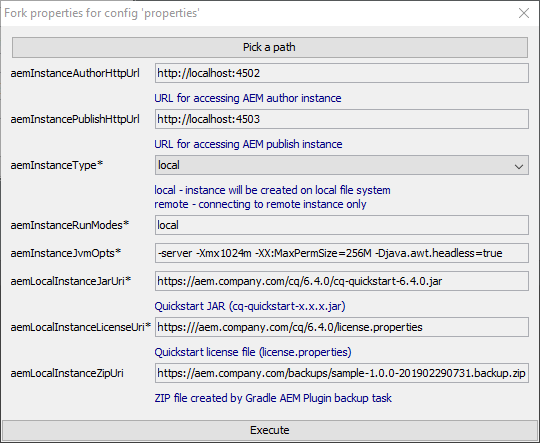
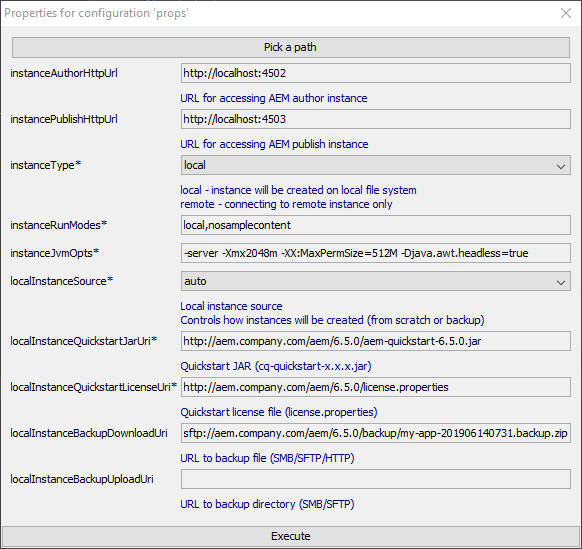
Align to GAP 7 & AEM 6.5

diff --git a/buildSrc/src/main/kotlin/build.kt b/buildSrc/src/main/kotlin/build.kt
@@ -1,0 +1,5 @@
+object Aem {
+
+  val VERSION = "6.5.0"
+
+}

diff --git a/README.md b/README.md
@@ -43,7 +43,7 @@ Documentation for:
 1. Fork project using command:
 
     ```bash
-    git clone git@github.com:Cognifide/gradle-aem-single.git && cd gradle-aem-single && gradlew fork
+    git clone git@github.com:Cognifide/gradle-aem-single.git && cd gradle-aem-single && ./gradlew fork
     ```
 
     and specify properties:
@@ -55,7 +55,7 @@ Documentation for:
 2. Setup user specific project configuration using command:
 
     ```bash
-    gradlew props
+    ./gradlew props
     ```
     
     and specify properties:
@@ -65,7 +65,7 @@ Documentation for:
 3. Setup local AEM instances and dependencies then build application using command:
 
     ```bash
-    gradlew -i aemSetup
+    ./gradlew setup
     ```
     
     and wait till complete AEM environment will be ready to use.
@@ -73,7 +73,7 @@ Documentation for:
 4. Develop continuously application using command:
 
     ```bash
-    gradlew -i
+    ./gradlew
     ```
 
 ## Environment
@@ -81,8 +81,8 @@ Documentation for:
 Tested on:
 
 * Java 1.8
-* Gradle 5.0
-* Adobe AEM 6.4
+* Gradle 5.4.1
+* Adobe AEM 6.5
 
 ## Building
 
